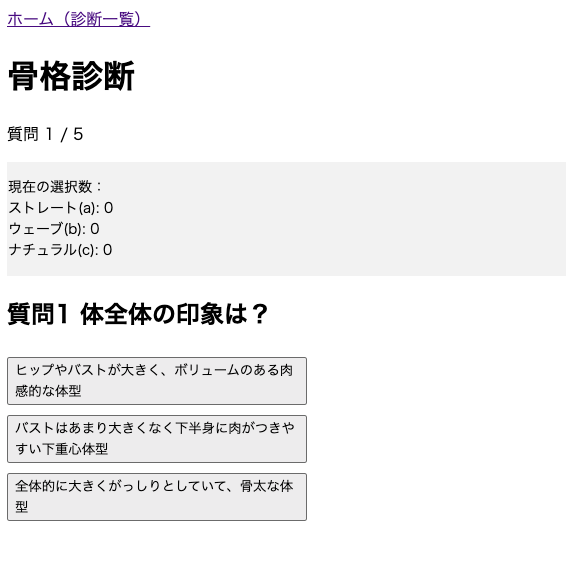
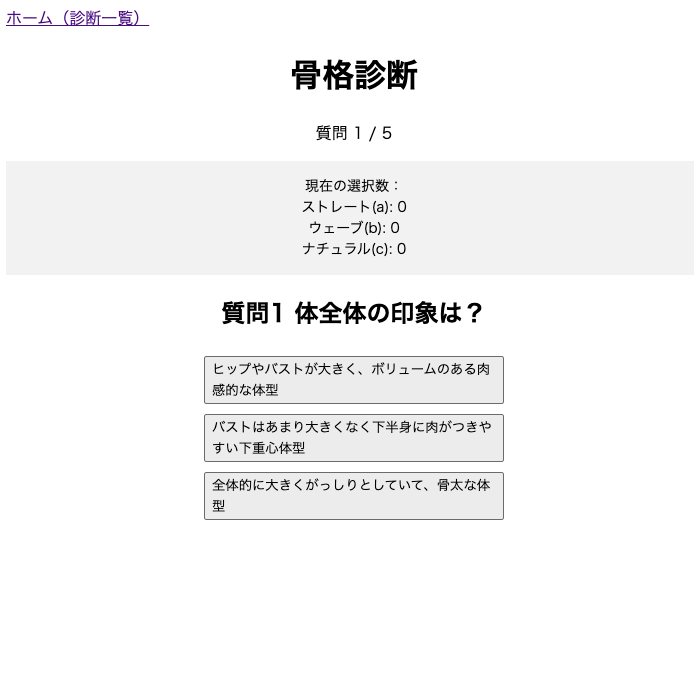
work更新

diff --git a/0_portfolio_v02_vite/src/data/works.js b/0_portfolio_v02_vite/src/data/works.js
@@ -258,6 +258,10 @@ export const works = [
     stack: '【CMS】WebRelease',
     impressions: [
       'ボリュームは色々ですが量が多い為、効率よくできるようにスニペットを作成したり、Pythonでの自動化を試みたりしました。',
+      '「レディース、キッズベビーマタニティ、メンズ、大きいサイズ」関連ページの運用実装',
+      '特集ページ(例 https://www.nissen.co.jp/s/shoes/AC21SP102/',
+      'サムネイル上部(例 https://www.nissen.co.jp/s/ladies/category/LZ/',
+      '',
     ],
   },
   {
